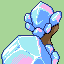
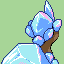
Female Chimeroar sprites, new moves: Kick, Gem Barrage

diff --git a/src/data/pokemon/level_up_learnsets.h b/src/data/pokemon/level_up_learnsets.h
@@ -23163,9 +23163,9 @@ static const struct LevelUpMove sToxatielLevelUpLearnset[] = {
     LEVEL_UP_MOVE( 4, MOVE_PECK),
     LEVEL_UP_MOVE( 7, MOVE_QUICK_ATTACK),
     LEVEL_UP_MOVE( 9, MOVE_POISON_STING),
-    LEVEL_UP_MOVE(13, MOVE_AERIAL_ACE),
+    LEVEL_UP_MOVE(12, MOVE_WING_ATTACK),
     LEVEL_UP_MOVE(20, MOVE_AGILITY),
-    LEVEL_UP_MOVE(25, MOVE_AIR_SLASH),
+    LEVEL_UP_MOVE(25, MOVE_AERIAL_ACE),
     LEVEL_UP_MOVE(37, MOVE_ROOST),
     LEVEL_UP_MOVE(41, MOVE_TAILWIND),
     LEVEL_UP_MOVE(49, MOVE_DRILL_PECK),
@@ -23179,14 +23179,15 @@ static const struct LevelUpMove sToxatooLevelUpLearnset[] = {
     LEVEL_UP_MOVE( 1, MOVE_TAIL_WHIP),
     LEVEL_UP_MOVE( 1, MOVE_PECK),
     LEVEL_UP_MOVE(10, MOVE_QUICK_ATTACK),
-    LEVEL_UP_MOVE(15, MOVE_POISON_STING),
-    LEVEL_UP_MOVE(16, MOVE_AERIAL_ACE),
+    LEVEL_UP_MOVE(13, MOVE_POISON_STING),
+    LEVEL_UP_MOVE(15, MOVE_WING_ATTACK),
     LEVEL_UP_MOVE(20, MOVE_POISON_JAB),
     LEVEL_UP_MOVE(24, MOVE_AGILITY),
-    LEVEL_UP_MOVE(27, MOVE_AIR_SLASH),
+    LEVEL_UP_MOVE(27, MOVE_AERIAL_ACE),
     LEVEL_UP_MOVE(30, MOVE_TOXIC),
     LEVEL_UP_MOVE(42, MOVE_ROOST),
     LEVEL_UP_MOVE(47, MOVE_TAILWIND),
+    LEVEL_UP_MOVE(53, MOVE_TOXIC_SPIKES),
     LEVEL_UP_MOVE(57, MOVE_DRILL_PECK),
     LEVEL_UP_MOVE(62, MOVE_HURRICANE),
     LEVEL_UP_END
@@ -23194,24 +23195,24 @@ static const struct LevelUpMove sToxatooLevelUpLearnset[] = {
 };
 
 static const struct LevelUpMove sToxatriceLevelUpLearnset[] = {
-    LEVEL_UP_MOVE( 1, MOVE_DRAGON_TAIL),
+    LEVEL_UP_MOVE( 0, MOVE_DRAGON_TAIL),
     LEVEL_UP_MOVE( 1, MOVE_POISON_STING),
     LEVEL_UP_MOVE( 1, MOVE_POISON_TAIL),  
     LEVEL_UP_MOVE( 1, MOVE_SCRATCH),    
     LEVEL_UP_MOVE( 1, MOVE_TAIL_WHIP),
     LEVEL_UP_MOVE( 1, MOVE_PECK),
     LEVEL_UP_MOVE( 1, MOVE_QUICK_ATTACK),
-    LEVEL_UP_MOVE(13, MOVE_QUICK_ATTACK),
-    LEVEL_UP_MOVE(18, MOVE_AERIAL_ACE),
+    LEVEL_UP_MOVE(18, MOVE_WING_ATTACK),
     LEVEL_UP_MOVE(22, MOVE_TWISTER),    
     LEVEL_UP_MOVE(25, MOVE_POISON_JAB),
     LEVEL_UP_MOVE(29, MOVE_AGILITY),
-    LEVEL_UP_MOVE(32, MOVE_AIR_SLASH),
+    LEVEL_UP_MOVE(32, MOVE_AERIAL_ACE),
     LEVEL_UP_MOVE(34, MOVE_TOXIC),
     LEVEL_UP_MOVE(38, MOVE_GLARE),
     LEVEL_UP_MOVE(44, MOVE_ROOST),
     LEVEL_UP_MOVE(50, MOVE_TAILWIND),
-    LEVEL_UP_MOVE(62, MOVE_DRILL_PECK),
+    LEVEL_UP_MOVE(57, MOVE_TOXIC_SPIKES),
+    LEVEL_UP_MOVE(63, MOVE_DRILL_PECK),
     LEVEL_UP_MOVE(68, MOVE_HURRICANE),
     LEVEL_UP_END
 };
@@ -23227,11 +23228,12 @@ static const struct LevelUpMove sGrockoLevelUpLearnset[] = {
     LEVEL_UP_MOVE(12, MOVE_MUD_SLAP),
     LEVEL_UP_MOVE(14, MOVE_ANCIENT_POWER),
     LEVEL_UP_MOVE(19, MOVE_ECHOED_VOICE),
+    LEVEL_UP_MOVE(20, MOVE_MUD_SHOT),
     LEVEL_UP_MOVE(25, MOVE_POWER_GEM),
     LEVEL_UP_MOVE(37, MOVE_SANDSTORM),
-    LEVEL_UP_MOVE(40, MOVE_SHED_TAIL),
+    LEVEL_UP_MOVE(40, MOVE_METEOR_BEAM),
     LEVEL_UP_MOVE(43, MOVE_FLASH_CANNON),
-    LEVEL_UP_MOVE(46, MOVE_METEOR_BEAM),
+    LEVEL_UP_MOVE(46, MOVE_CRYSTAL_BARRAGE),
     LEVEL_UP_END
 };
 
@@ -23244,12 +23246,14 @@ static const struct LevelUpMove sRubeckoLevelUpLearnset[] = {
     LEVEL_UP_MOVE(14, MOVE_MUD_SLAP),
     LEVEL_UP_MOVE(15, MOVE_ANCIENT_POWER),
     LEVEL_UP_MOVE(21, MOVE_ECHOED_VOICE),
-    LEVEL_UP_MOVE(25, MOVE_DRAGON_BREATH),
+    LEVEL_UP_MOVE(23, MOVE_MUD_SHOT),
+    LEVEL_UP_MOVE(27, MOVE_DRAGON_BREATH),
     LEVEL_UP_MOVE(28, MOVE_POWER_GEM),
     LEVEL_UP_MOVE(40, MOVE_SANDSTORM),
     LEVEL_UP_MOVE(44, MOVE_FLASH_CANNON),
-    LEVEL_UP_MOVE(47, MOVE_SHED_TAIL),
-    LEVEL_UP_MOVE(55, MOVE_METEOR_BEAM),
+    LEVEL_UP_MOVE(47, MOVE_METEOR_BEAM),
+    LEVEL_UP_MOVE(55, MOVE_CRYSTAL_BARRAGE),
+    LEVEL_UP_MOVE(70, MOVE_SHED_TAIL),
     LEVEL_UP_END
 };
 
@@ -23262,12 +23266,14 @@ static const struct LevelUpMove sDrabuncleLevelUpLearnset[] = {
     LEVEL_UP_MOVE( 1, MOVE_MUD_SLAP),
     LEVEL_UP_MOVE(23, MOVE_ANCIENT_POWER),
     LEVEL_UP_MOVE(24, MOVE_ECHOED_VOICE),
+    LEVEL_UP_MOVE(30, MOVE_MUD_SHOT),
     LEVEL_UP_MOVE(37, MOVE_DRAGON_BREATH),
     LEVEL_UP_MOVE(32, MOVE_POWER_GEM),
     LEVEL_UP_MOVE(45, MOVE_SANDSTORM),
     LEVEL_UP_MOVE(49, MOVE_FLASH_CANNON),
-    LEVEL_UP_MOVE(55, MOVE_SHED_TAIL),
-    LEVEL_UP_MOVE(60, MOVE_METEOR_BEAM),
+    LEVEL_UP_MOVE(55, MOVE_METEOR_BEAM),
+    LEVEL_UP_MOVE(60, MOVE_CRYSTAL_BARRAGE),
+    LEVEL_UP_MOVE(70, MOVE_SHED_TAIL),
     LEVEL_UP_END
 };
 #endif //P_FAMILY_GROCKO
@@ -23276,7 +23282,7 @@ static const struct LevelUpMove sDrabuncleLevelUpLearnset[] = {
 static const struct LevelUpMove sChimera1LevelUpLearnset[] = {
     LEVEL_UP_MOVE( 1, MOVE_POUND),
     LEVEL_UP_MOVE( 1, MOVE_LEER),
-    LEVEL_UP_MOVE( 4, MOVE_DOUBLE_KICK),
+    LEVEL_UP_MOVE( 4, MOVE_KICK),
     LEVEL_UP_MOVE( 6, MOVE_ENDURE),
     LEVEL_UP_MOVE( 9, MOVE_SAND_ATTACK),
     LEVEL_UP_MOVE(12, MOVE_HORN_ATTACK),
@@ -23298,7 +23304,7 @@ static const struct LevelUpMove sChimera2LevelUpLearnset[] = {
     LEVEL_UP_MOVE( 0, MOVE_SUCKER_PUNCH),
     LEVEL_UP_MOVE( 1, MOVE_LEER),
     LEVEL_UP_MOVE( 1, MOVE_POUND),
-    LEVEL_UP_MOVE( 1, MOVE_DOUBLE_KICK),
+    LEVEL_UP_MOVE( 1, MOVE_KICK),
     LEVEL_UP_MOVE( 1, MOVE_ENDURE),
     LEVEL_UP_MOVE(13, MOVE_HORN_ATTACK),
     LEVEL_UP_MOVE(15, MOVE_SWAGGER),
@@ -23319,7 +23325,7 @@ static const struct LevelUpMove sChimera3LevelUpLearnset[] = {
     LEVEL_UP_MOVE( 0, MOVE_ROAR),
     LEVEL_UP_MOVE( 1, MOVE_LEER),
     LEVEL_UP_MOVE( 1, MOVE_POUND),
-    LEVEL_UP_MOVE( 1, MOVE_DOUBLE_KICK),
+    LEVEL_UP_MOVE( 1, MOVE_KICK),
     LEVEL_UP_MOVE( 1, MOVE_ENDURE),
     LEVEL_UP_MOVE( 1, MOVE_HEADBUTT),
     LEVEL_UP_MOVE( 1, MOVE_FEINT_ATTACK),

diff --git a/src/data/graphics/pokemon.h b/src/data/graphics/pokemon.h
@@ -10952,10 +10952,13 @@ const u8 gMonFootprint_QuestionMark[] = INCBIN_U8("graphics/pokemon/question_mar
     const u8 gMonFootprint_Rubecko[] = INCBIN_U8("graphics/pokemon/rubecko/footprint.1bpp");
 
     const u32 gMonFrontPic_Drabuncle[] = INCBIN_U32("graphics/pokemon/drabuncle/anim_front.4bpp.lz");
+    const u32 gMonFrontPic_DrabuncleF[] = INCBIN_U32("graphics/pokemon/drabuncle/anim_front_f.4bpp.lz");
     const u32 gMonPalette_Drabuncle[] = INCBIN_U32("graphics/pokemon/drabuncle/normal.gbapal.lz");
     const u32 gMonBackPic_Drabuncle[] = INCBIN_U32("graphics/pokemon/drabuncle/back.4bpp.lz");
+    const u32 gMonBackPic_DrabuncleF[] = INCBIN_U32("graphics/pokemon/drabuncle/back_f.4bpp.lz");
     const u32 gMonShinyPalette_Drabuncle[] = INCBIN_U32("graphics/pokemon/drabuncle/shiny.gbapal.lz");
     const u8 gMonIcon_Drabuncle[] = INCBIN_U8("graphics/pokemon/drabuncle/icon.4bpp");
+    const u8 gMonIcon_DrabuncleF[] = INCBIN_U8("graphics/pokemon/drabuncle/icon_f.4bpp");
     const u8 gMonFootprint_Drabuncle[] = INCBIN_U8("graphics/pokemon/drabuncle/footprint.1bpp");
 #endif //P_FAMILY_GROCKO
 
@@ -10975,10 +10978,13 @@ const u8 gMonFootprint_QuestionMark[] = INCBIN_U8("graphics/pokemon/question_mar
     const u8 gMonFootprint_Chimera2[] = INCBIN_U8("graphics/pokemon/chimera2/footprint.1bpp");
 
     const u32 gMonFrontPic_Chimera3[] = INCBIN_U32("graphics/pokemon/chimera3/anim_front.4bpp.lz");
+    const u32 gMonFrontPic_Chimera3F[] = INCBIN_U32("graphics/pokemon/chimera3/anim_front_f.4bpp.lz");
     const u32 gMonPalette_Chimera3[] = INCBIN_U32("graphics/pokemon/chimera3/normal.gbapal.lz");
     const u32 gMonBackPic_Chimera3[] = INCBIN_U32("graphics/pokemon/chimera3/back.4bpp.lz");
+    const u32 gMonBackPic_Chimera3F[] = INCBIN_U32("graphics/pokemon/chimera3/back_f.4bpp.lz");
     const u32 gMonShinyPalette_Chimera3[] = INCBIN_U32("graphics/pokemon/chimera3/shiny.gbapal.lz");
     const u8 gMonIcon_Chimera3[] = INCBIN_U8("graphics/pokemon/chimera3/icon.4bpp");
+    const u8 gMonIcon_Chimera3F[] = INCBIN_U8("graphics/pokemon/chimera3/icon_f.4bpp");
     const u8 gMonFootprint_Chimera3[] = INCBIN_U8("graphics/pokemon/chimera3/footprint.1bpp");
 #endif //P_FAMILY_CHIMERA
 

diff --git a/src/data/pokemon/species_info/custom.h b/src/data/pokemon/species_info/custom.h
@@ -280,14 +280,17 @@ const struct SpeciesInfo gSpeciesInfoGen2[] =
         .trainerScale = 256,
         .trainerOffset = 0,
         FRONT_PIC(Drabuncle, 64, 64),
+        FRONT_PIC_FEMALE(Drabuncle, 64, 64),
         .frontPicYOffset = 0,
         .frontAnimFrames = sAnims_Drabuncle,
         .frontAnimId = ANIM_V_STRETCH,
         BACK_PIC(Drabuncle, 64, 64),
+        BACK_PIC_FEMALE(Drabuncle, 64, 64),
         .backPicYOffset = 5,
         .backAnimId = BACK_ANIM_JOLT_RIGHT,
         PALETTES(Drabuncle),
         ICON(Drabuncle, 1),
+        ICON_FEMALE(Drabuncle, 1),
         .footprint = gMonFootprint_Drabuncle,
         LEARNSETS(Drabuncle),
     },
@@ -313,7 +316,7 @@ const struct SpeciesInfo gSpeciesInfoGen2[] =
         .eggGroups = { EGG_GROUP_FIELD, EGG_GROUP_FIELD },
         .abilities = { ABILITY_SAP_SIPPER, ABILITY_NONE, ABILITY_SAP_SIPPER },
         .bodyColor = BODY_COLOR_BROWN,
-        .speciesName = _("Chimera"),
+        .speciesName = _("Merakid"),
         .cryId = CRY_CHIMERA1,
         .natDexNum = NATIONAL_DEX_CHIMERA1,
         .categoryName = _("Goat"),
@@ -381,7 +384,7 @@ const struct SpeciesInfo gSpeciesInfoGen2[] =
         .frontAnimFrames = sAnims_Chimera2,
         .frontAnimId = ANIM_BACK_AND_LUNGE,
         BACK_PIC(Chimera2, 64, 64),
-        .backPicYOffset = 7,
+        .backPicYOffset = 2,
         .backAnimId = BACK_ANIM_H_STRETCH,
         PALETTES(Chimera2),
         ICON(Chimera2, 0),
@@ -425,14 +428,17 @@ const struct SpeciesInfo gSpeciesInfoGen2[] =
         .trainerScale = 256,
         .trainerOffset = 0,
         FRONT_PIC(Chimera3, 64, 64),
+        FRONT_PIC_FEMALE(Chimera3, 64, 64),
         .frontPicYOffset = 0,
         .frontAnimFrames = sAnims_Chimera3,
         .frontAnimId = ANIM_H_VIBRATE,
         BACK_PIC(Chimera3, 64, 64),
+        BACK_PIC_FEMALE(Chimera3, 64, 64),
         .backPicYOffset = 7,
         .backAnimId = BACK_ANIM_JOLT_RIGHT,
         PALETTES(Chimera3),
         ICON(Chimera3, 2),
+        ICON_FEMALE(Chimera3, 2),
         .footprint = gMonFootprint_Chimera3,
         LEARNSETS(Chimera3),
     },

diff --git a/src/data/battle_moves.h b/src/data/battle_moves.h
@@ -14712,7 +14712,7 @@ const struct BattleMove gBattleMoves[MOVES_COUNT_DYNAMAX] =
     [MOVE_PEBBLE_SHOT] =
     {
         .effect = EFFECT_HIT,
-        .power = 40,
+        .power = 35,
         .type = TYPE_ROCK,
         .accuracy = 100,
         .pp = 20,
@@ -14722,6 +14722,35 @@ const struct BattleMove gBattleMoves[MOVES_COUNT_DYNAMAX] =
         .split = SPLIT_SPECIAL,
         .zMoveEffect = Z_EFFECT_NONE,
     },
+
+    [MOVE_CRYSTAL_BARRAGE] =
+    {
+        .effect = EFFECT_CLOSE_COMBAT,
+        .power = 120,
+        .type = TYPE_ROCK,
+        .accuracy = 100,
+        .pp = 5,
+        .secondaryEffectChance = 0,
+        .target = MOVE_TARGET_SELECTED,
+        .priority = 0,
+        .split = SPLIT_SPECIAL,
+        .zMoveEffect = Z_EFFECT_NONE,
+    },
+
+    [MOVE_KICK] =
+    {
+        .effect = EFFECT_HIT,
+        .power = 35,
+        .type = TYPE_FIGHTING,
+        .accuracy = 100,
+        .pp = 20,
+        .secondaryEffectChance = 0,
+        .target = MOVE_TARGET_SELECTED,
+        .priority = 0,
+        .split = SPLIT_PHYSICAL,
+        .zMoveEffect = Z_EFFECT_NONE,
+    },
+    
 
     // Z-Moves
     [MOVE_BREAKNECK_BLITZ] =

diff --git a/src/data/text/move_names.h b/src/data/text/move_names.h
@@ -851,6 +851,8 @@ const u8 gMoveNames[MOVES_COUNT_DYNAMAX][MOVE_NAME_LENGTH + 1] =
     [MOVE_UPPER_HAND] = _("Upper Hand"),
     [MOVE_MALIGNANT_CHAIN] = _("Malignant Chain"),
     [MOVE_PEBBLE_SHOT] = _("Pebble Shot"),
+    [MOVE_CRYSTAL_BARRAGE] = _("Crystal Barrage"),
+    [MOVE_KICK] = _("Kick"),
     // Max Moves
     [MOVE_MAX_GUARD] = _("Max Guard"),
     [MOVE_MAX_STRIKE] = _("Max Strike"),
@@ -1759,6 +1761,8 @@ const u8 gMoveNames[MOVES_COUNT_DYNAMAX][MOVE_NAME_LENGTH + 1] =
     [MOVE_UPPER_HAND] = _("Upper Hand"),
     [MOVE_MALIGNANT_CHAIN] = _("MalignntChan"),
     [MOVE_PEBBLE_SHOT] = _("Pebble Shot"),
+    [MOVE_CRYSTAL_BARRAGE] = _("Gem Barrage"),
+    [MOVE_KICK] = _("Kick"),
     // Max Moves
     [MOVE_MAX_GUARD] = _("M-Guard"),
     [MOVE_MAX_STRIKE] = _("M-Strike"),

diff --git a/src/data/bard_music/moves.h b/src/data/bard_music/moves.h
@@ -2854,6 +2854,22 @@ const struct BardSound gBardSounds_Moves[MOVES_COUNT][6] = {
         NULL_BARD_SOUND,
         NULL_BARD_SOUND,
     },
+    [MOVE_CRYSTAL_BARRAGE] = {
+        { .songLengthId = 12 },
+        { .songLengthId =  0 },
+        { .songLengthId = 48 },
+        { .songLengthId = 27 },
+        { .songLengthId = 51 },
+        NULL_BARD_SOUND,
+    },
+    [MOVE_KICK] = {
+        { .songLengthId = 17 },
+        { .songLengthId = 51 },
+        NULL_BARD_SOUND,
+        NULL_BARD_SOUND,
+        NULL_BARD_SOUND,
+        NULL_BARD_SOUND,
+    },
 };
 
 #endif //GUARD_DATA_BARD_MUSIC_MOVES_H

diff --git a/src/data/contest_moves.h b/src/data/contest_moves.h
@@ -6112,6 +6112,22 @@ const struct ContestMove gContestMoves[MOVES_COUNT] =
         .comboStarterId = 0,
         .comboMoves = {0},
     },
+
+    [MOVE_CRYSTAL_BARRAGE] =
+    {
+        .effect = CONTEST_EFFECT_STARTLE_PREV_MONS,
+        .contestCategory = CONTEST_CATEGORY_BEAUTY,
+        .comboStarterId = 0,
+        .comboMoves = {0},
+    },
+
+    [MOVE_KICK] =
+    {
+        .effect = CONTEST_EFFECT_STARTLE_PREV_MONS,
+        .contestCategory = CONTEST_CATEGORY_TOUGH,
+        .comboStarterId = 0,
+        .comboMoves = {0},
+    },
 };
 
 const struct ContestEffect gContestEffects[] =

diff --git a/src/data/text/move_descriptions.h b/src/data/text/move_descriptions.h
@@ -3336,6 +3336,10 @@ static const u8 sPebbleShotDescription[] = _(
     "Flings a small rock at\n"
     "the enemy.");
 
+static const u8 sKickDescription[] = _(
+    "A kick that damages\n"
+    "the enemy.");
+
 const u8 gNotDoneYetDescription[] = _(
     "This move can't be used. Its\n"
     "effect is in development.");
@@ -4197,4 +4201,6 @@ const u8 *const gMoveDescriptionPointers[MOVES_COUNT - 1] =
 
     //Custom
     [MOVE_PEBBLE_SHOT - 1] = sPebbleShotDescription,
+    [MOVE_CRYSTAL_BARRAGE - 1] = sCloseCombatDescription,
+    [MOVE_KICK - 1] = sKickDescription,
 };

diff --git a/src/data/easy_chat/easy_chat_group_move_2.h b/src/data/easy_chat/easy_chat_group_move_2.h
@@ -34,6 +34,7 @@ const u16 gEasyChatGroup_Move2[] = {
     MOVE_COTTON_SPORE,
     MOVE_COVET,
     MOVE_CRUSH_CLAW,
+    MOVE_CRYSTAL_BARRAGE,
     MOVE_CURSE,
     MOVE_DEFENSE_CURL,
     MOVE_DESTINY_BOND,
@@ -91,6 +92,7 @@ const u16 gEasyChatGroup_Move2[] = {
     MOVE_IRON_DEFENSE,
     MOVE_JUMP_KICK,
     MOVE_KNOCK_OFF,
+    MOVE_KICK,
     MOVE_LEAF_BLADE,
     MOVE_LEECH_SEED,
     MOVE_LEER,

diff --git a/include/constants/moves.h b/include/constants/moves.h
@@ -911,8 +911,10 @@
 #define MOVES_COUNT_GEN9 848
 
 #define MOVE_PEBBLE_SHOT 848
+#define MOVE_CRYSTAL_BARRAGE 849
+#define MOVE_KICK 850
 
-#define MOVES_COUNT_CUSTOM 849
+#define MOVES_COUNT_CUSTOM 851
 
 #define MOVES_COUNT         MOVES_COUNT_CUSTOM
 
